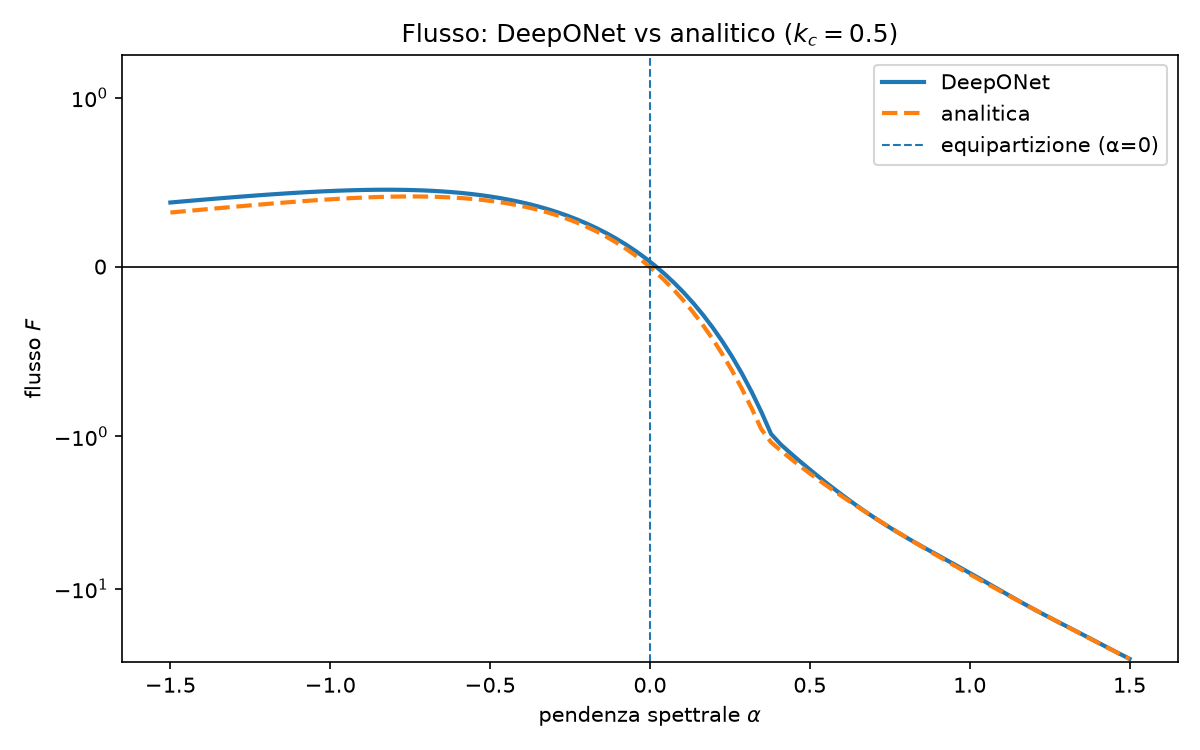
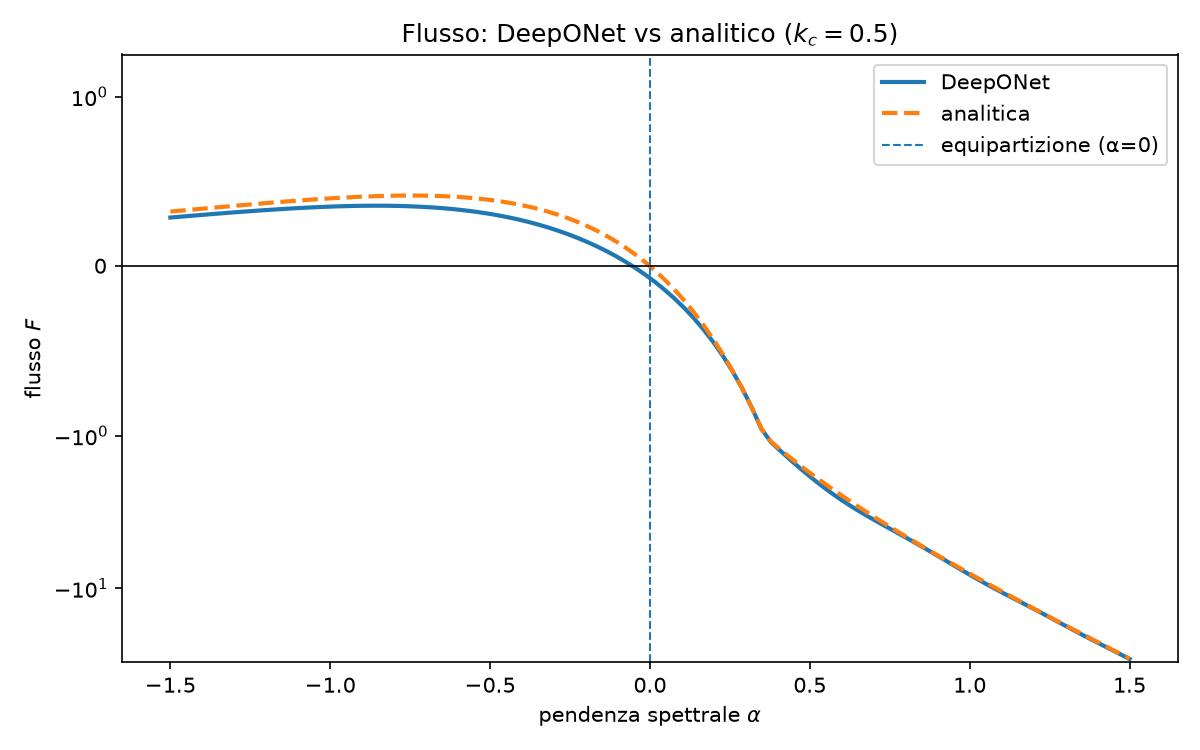
fix: update fit_operators_at_fixed_alpha and plot_coefficients_vs_alpha functions to simplify feature selection and improve clarity

diff --git a/src/physics/operator_library.py b/src/physics/operator_library.py
@@ -71,9 +71,9 @@ def fit_operators_at_fixed_alpha(model, sensor_grid, alpha, A, k_c_values, k_min
 
     F_exact = A * (k_c_values ** (-alpha) - k_min ** (-alpha))
 
-    features = [n_vals, dn_vals]
-    if include_d2:
-        features.append(d2n_vals)
+    features = [n_vals] #dn_vals]
+    #if include_d2:
+    #    features.append(d2n_vals)
     X = np.stack(features, axis=1)
 
     reg_pred = LinearRegression(fit_intercept=True).fit(X, F_pred)
@@ -93,8 +93,8 @@ def plot_coefficients_vs_alpha(model, sensor_grid, alphas, A, k_c_values, k_min,
         )
         for key, coef, inter in (("pred", coef_p, int_p), ("exact", coef_e, int_e)):
             res[key]["a"].append(coef[0])
-            res[key]["b"].append(coef[1])
-            res[key]["c"].append(coef[2])
+            #res[key]["b"].append(coef[1])
+            #res[key]["c"].append(coef[2])
             res[key]["int"].append(inter)
 
     fig, (ax1, ax2) = plt.subplots(1, 2, figsize=(14, 5), sharey=True)
@@ -104,8 +104,8 @@ def plot_coefficients_vs_alpha(model, sensor_grid, alphas, A, k_c_values, k_min,
         (ax2, "exact", "Fit su $F$ analitico"),
     ):
         ax.plot(alphas, res[key]["a"], "o-", markersize=3, label=r"$a(\alpha)$ — $n_k$")
-        ax.plot(alphas, res[key]["b"], "o-", markersize=3, label=r"$b(\alpha)$ — $\partial_k n_k$")
-        ax.plot(alphas, res[key]["c"], "o-", markersize=3, label=r"$c(\alpha)$ — $\partial_k^2 n_k$")
+        #ax.plot(alphas, res[key]["b"], "o-", markersize=3, label=r"$b(\alpha)$ — $\partial_k n_k$")
+        #ax.plot(alphas, res[key]["c"], "o-", markersize=3, label=r"$c(\alpha)$ — $\partial_k^2 n_k$")
         ax.plot(alphas, res[key]["int"], "o-", markersize=3, label=r"intercetta$(\alpha)$")
         ax.axhline(0, color="black", linewidth=0.6)
         ax.axhline(1, color="gray", linewidth=0.6, linestyle=":")
